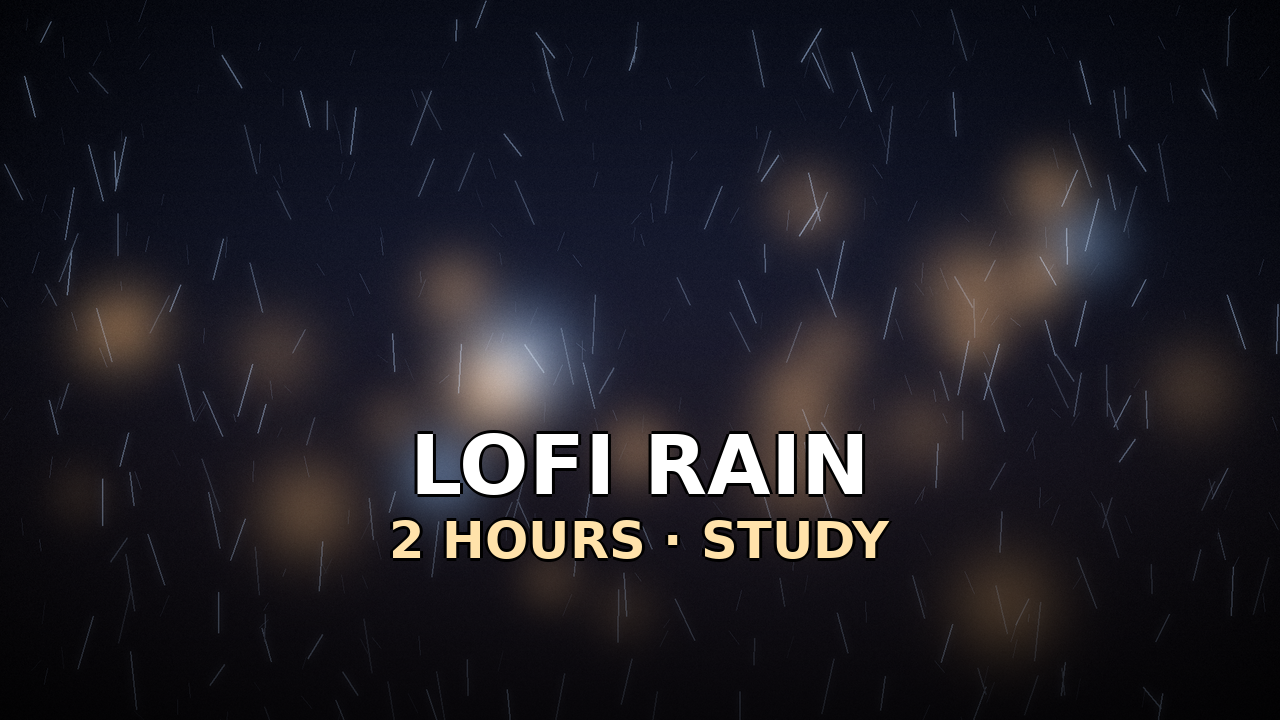
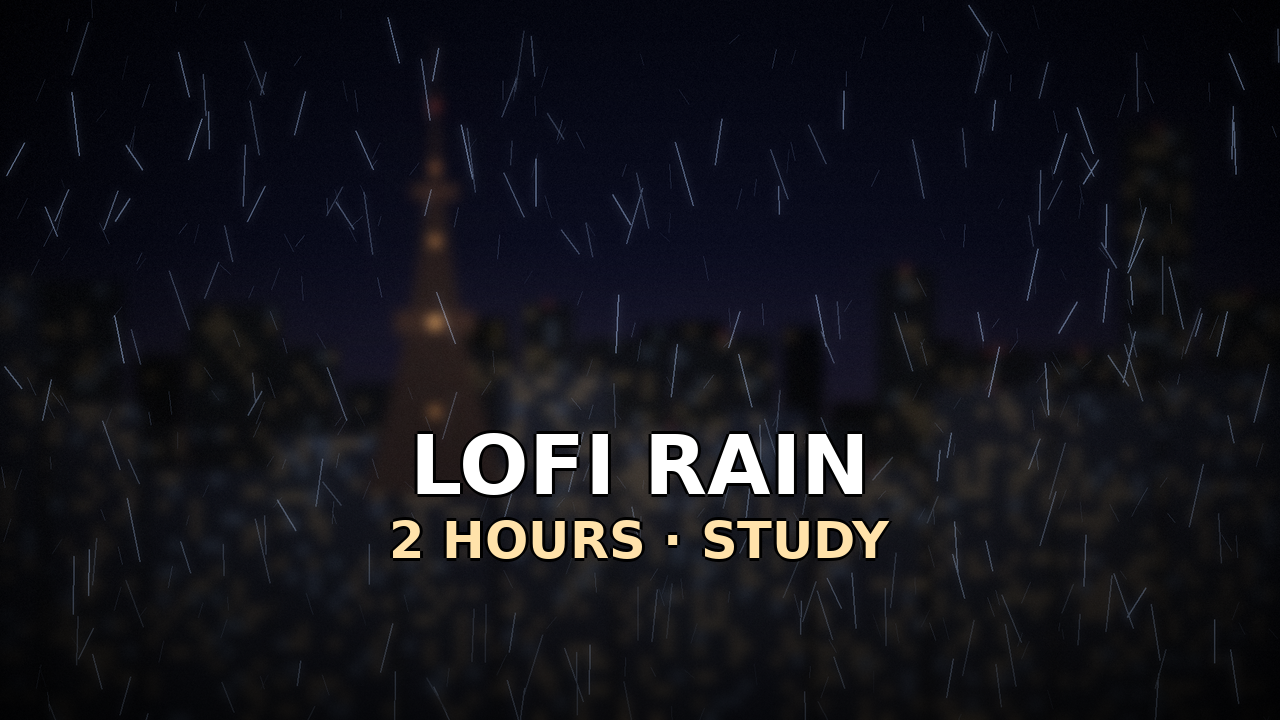
feat: 夜景シーンを作り込み、8時間版トラックと映像だけ再生成する機能を追加する
## 夜景シーン (night_skyline / rainy_city)

「東京タワーの夜景がぼやけて分からない」という指摘を受けて、
ぼかしを減らすだけでなくシーン自体を作り直した。
写真は著作権上使えないため、矩形と光だけで街を組み立てている。

- 電波塔に鉄骨のトラス構造、展望台、ライトアップ、頂部の赤色灯
- ビルの窓明かりを半径の違う3段のブルームで空へ滲ませる。
  小さな窓を大きくぼかすと値が落ちるので、増幅してから重ねている。
  ここが「夜景らしさ」を決めている
- 手前に川を置き、街を上下反転して映す。縦に引き伸ばしてから
  ぼかすと水面に光の筋が伸びる
- 空は上を藍、地平線近くを街明かりで暖色に染める
- 1割ほどのビルを飛び抜けて高くし、平坦なスカイラインを避ける

## 映像の割り当て

01 Lofi を rainy_city、10 Deep Focus を night_skyline に変更。
残り8本は据え置き。全部を同じ絵にすると差別化が消え、
テンプレート量産の外形に近づくため。

## 8時間版トラック (11_sleep_city_8h)

再生時間4,000時間を最速で積むための一本。
既存の睡眠BGMを長くするだけだと「同じ音源を長さ違いで2本」に
なりポリシー違反なので、別シード・別調 (Dm/46BPM) の新曲にした。

## --visual-only

音源合成を飛ばして映像とサムネだけ作り直し、再多重化する。
絵の差し替えが1本5分から数十秒に短縮される。

Claude-Session: https://claude.ai/code/session_014Nr9ShkX7adVXWWXqwiaYN

diff --git a/bgm_studio/visuals.py b/bgm_studio/visuals.py
@@ -502,83 +502,189 @@ def scene_minimal_gradient(seed: int = 10):
     return frame
 
 
+def _city_layers(rng, w, h, horizon, tower_x=0.56):
+    """
+    夜のビル群と電波塔を描いた RGB 配列を返す。
+    写真は著作権上使えないので、矩形と光だけで街を組み立てる。
+    """
+    city = Image.new("RGB", (w, h), (0, 0, 0))
+    d = ImageDraw.Draw(city)
+
+    # 奥から手前へ3層。奥ほど暗く、低く、窓が少ない
+    for layer, (dark, hmax, wmin, wmax, dens) in enumerate([
+            (0.30, 0.26, 46, 110, 0.16),
+            (0.55, 0.34, 70, 150, 0.24),
+            (1.00, 0.22, 96, 210, 0.30)]):
+        x = -80
+        while x < w + 80:
+            bw = int(rng.integers(wmin, wmax))
+            # 1割ほどは飛び抜けて高いビルにして、平坦なスカイラインを避ける
+            tall = rng.random() < 0.10
+            bh = int(rng.uniform(0.30, 1.0) * hmax * h * (1.9 if tall else 1.0))
+            top = horizon - bh + layer * 22
+            col = tuple(int(v * dark) for v in (20, 24, 38))
+            d.rectangle([x, top, x + bw, h], fill=col)
+            # 屋上の航空障害灯
+            if rng.random() < 0.35:
+                d.ellipse([x + bw // 2 - 3, top - 3, x + bw // 2 + 3, top + 3],
+                          fill=(255, 90, 70))
+            # 窓
+            step_y, step_x = 20, 16
+            for wy in range(top + 10, h, step_y):
+                for wx in range(x + 8, x + bw - 7, step_x):
+                    if rng.random() < dens:
+                        warm = rng.random() < 0.78
+                        c = (255, 205, 128) if warm else (168, 205, 255)
+                        f = 0.45 + 0.55 * dark
+                        d.rectangle([wx, wy, wx + 6, wy + 8],
+                                    fill=tuple(int(v * f) for v in c))
+            x += bw + int(rng.integers(3, 16))
+
+    # 電波塔
+    tx = int(w * tower_x)
+    base_y, top_y = horizon + 6, int(h * 0.12)
+    seg = 70
+    for i in range(seg):
+        t0, t1 = i / seg, (i + 1) / seg
+        y0 = base_y + (top_y - base_y) * t0
+        y1 = base_y + (top_y - base_y) * t1
+        half0 = int(104 * (1.0 - t0) ** 1.9) + 4
+        half1 = int(104 * (1.0 - t1) ** 1.9) + 4
+        # 鉄骨のトラス感を出すため、明暗を交互に
+        c = (46, 34, 34) if i % 2 == 0 else (34, 26, 28)
+        d.polygon([(tx - half0, y0), (tx + half0, y0),
+                   (tx + half1, y1), (tx - half1, y1)], fill=c)
+    # 展望台
+    for t, hw, hh in ((0.42, 60, 16), (0.74, 34, 11)):
+        y = base_y + (top_y - base_y) * t
+        d.rectangle([tx - hw, y - hh, tx + hw, y + hh], fill=(58, 40, 36))
+    # ライトアップと頂部の灯り
+    for t, r, c in ((0.20, 7, (255, 168, 92)), (0.42, 10, (255, 186, 110)),
+                    (0.62, 7, (255, 168, 92)), (0.80, 6, (255, 150, 80)),
+                    (0.95, 5, (255, 90, 70))):
+        y = base_y + (top_y - base_y) * t
+        d.ellipse([tx - r, y - r, tx + r, y + r], fill=c)
+    d.line([(tx, top_y), (tx, top_y - 78)], fill=(44, 34, 38), width=4)
+    return np.asarray(city, dtype=np.float32)
+
+
 def scene_night_skyline(seed: int = 11):
     """
-    夜の街のスカイライン。
-    無数の窓明かりと、中央にそびえる電波塔のシルエット。
+    夜の街のスカイライン。手前に川、対岸にビル群、中央に電波塔。
 
-    実在の写真は使えない (著作権) ので、矩形とグローだけで組み立てている。
-    そのぶん完全にオリジナルで、ぼかせば「どこかの街の夜」に見える。
+    「綺麗な夜景」を成立させているのは主に3つ:
+      - 空を単色にせず、地平線近くを街の光で暖色に染める
+      - ビルの光を大きくぼかして空へ滲ませる (ブルーム)
+      - 水面に街を映し、横方向の波でゆっくり歪ませる
     """
     rng = np.random.default_rng(seed)
-    bg = vgrad([(6, 9, 22), (12, 17, 38), (26, 28, 52), (44, 36, 48)])
+    horizon = int(H * 0.62)
 
-    city = Image.new("RGB", (W, H), (0, 0, 0))
-    d = ImageDraw.Draw(city)
-    horizon = int(H * 0.72)
+    # 空 — 上は藍、地平線近くは街明かりで暖色に
+    sky = vgrad([(4, 7, 22), (9, 13, 34), (20, 22, 48),
+                 (52, 40, 58), (86, 60, 54)],
+                stops=[0.0, 0.28, 0.46, 0.56, 0.62])
+    # 星
+    n_star = 420
+    sx = rng.integers(0, W, n_star)
+    sy = (rng.random(n_star) ** 2.0 * horizon * 0.72).astype(int)
+    sv = rng.uniform(50, 190, n_star).astype(np.float32)
+    sky[sy, sx] += sv[:, None]
 
-    # ビル群 (奥から手前へ3層。奥ほど暗く小さく)
-    for layer, (dark, hmax, wmin, wmax) in enumerate(
-            [(0.35, 0.30, 60, 130), (0.6, 0.42, 80, 170), (1.0, 0.26, 110, 240)]):
-        x = -60
-        while x < W + 60:
-            bw = int(rng.integers(wmin, wmax))
-            bh = int(rng.uniform(0.35, 1.0) * hmax * H)
-            top = horizon - bh + layer * 26
-            col = tuple(int(v * dark) for v in (18, 22, 34))
-            d.rectangle([x, top, x + bw, H], fill=col)
-            # 窓明かり
-            for wy in range(top + 12, H, 22):
-                for wx in range(x + 10, x + bw - 8, 18):
-                    if rng.random() < 0.28 - 0.08 * layer:
-                        warm = rng.random() < 0.75
-                        c = (255, 208, 130) if warm else (170, 205, 255)
-                        c = tuple(int(v * (0.5 + 0.5 * dark)) for v in c)
-                        d.rectangle([wx, wy, wx + 7, wy + 9], fill=c)
-            x += bw + int(rng.integers(4, 18))
-
-    # 電波塔 (中央やや右)
-    tx = int(W * 0.56)
-    base_y, top_y = horizon + 10, int(H * 0.14)
-    for i in range(60):
-        t = i / 59.0
-        y0 = base_y + (top_y - base_y) * t
-        y1 = base_y + (top_y - base_y) * (t + 1 / 59.0)
-        half = int(96 * (1.0 - t) ** 1.8) + 4
-        d.polygon([(tx - half, y0), (tx + half, y0),
-                   (tx + max(half - 3, 3), y1), (tx - max(half - 3, 3), y1)],
-                  fill=(30, 24, 30))
-    # 塔の灯り
-    for t, r in ((0.30, 9), (0.55, 7), (0.78, 6), (0.94, 5)):
-        y = base_y + (top_y - base_y) * t
-        d.ellipse([tx - r, y - r, tx + r, y + r], fill=(255, 140, 80))
-    d.line([(tx, top_y), (tx, top_y - 70)], fill=(40, 32, 38), width=5)
-
-    city_a = np.asarray(city, dtype=np.float32)
-    base = np.clip(screen(bg, city_a * 0.0) , 0, 255)
+    city_a = _city_layers(rng, W, H, horizon)
     mask = (city_a.sum(axis=2) > 1)[:, :, None]
-    base = np.where(mask, city_a, bg)
-    # 街の光が空へにじむ
-    base = screen(base, blur(np.where(city_a > 90, city_a, 0.0), 34.0) * 0.55)
-    base = vignette(base, 0.5) + static_grain(seed=seed, amount=2.0)
+    base = np.where(mask, city_a, sky)
+
+    # 街の光を空へ滲ませる (ブルーム)。
+    # 小さな窓を大きくぼかすと値が一気に落ちるので、
+    # 半径の違う3段を強めに増幅して重ねる。これが「夜景らしさ」の正体。
+    lights = np.where(city_a > 100, city_a, 0.0)
+    base = screen(base, np.clip(blur(lights, 60.0) * 4.0, 0, 255) * 0.30)
+    base = screen(base, np.clip(blur(lights, 22.0) * 2.6, 0, 255) * 0.30)
+    base = screen(base, np.clip(blur(lights, 7.0) * 1.8, 0, 255) * 0.42)
+    # 街全体が空を染める光のドーム
+    base = screen(base, radial_glow(0.5, 0.63, 0.62, (150, 96, 70), 0.38,
+                                    falloff=1.5))
+    base = screen(base, radial_glow(0.56, 0.50, 0.26, (170, 110, 78), 0.35,
+                                    falloff=1.6))
+
+    # 川 — 街を上下反転して映し、暗く沈める
+    water_top = int(H * 0.78)
+    refl = base[:water_top][::-1]
+    wh = H - water_top
+    refl = refl[:wh] if refl.shape[0] >= wh else np.vstack(
+        [refl, np.zeros((wh - refl.shape[0], W, 3), np.float32)])
+    # 反射は縦に引き伸ばしてから軽くぼかすと、水面に光の筋が伸びる
+    refl_img = Image.fromarray(np.clip(refl, 0, 255).astype(np.uint8))
+    refl_img = refl_img.resize((W, wh), Image.BILINEAR)
+    refl = np.asarray(refl_img, dtype=np.float32)
+    streak = np.asarray(
+        Image.fromarray(np.clip(refl, 0, 255).astype(np.uint8))
+        .filter(ImageFilter.GaussianBlur(2)).resize((W // 6, wh), Image.BILINEAR)
+        .resize((W, wh), Image.BILINEAR), dtype=np.float32)
+    base[water_top:] = np.clip(blur(refl, 5.0) * 0.55 + streak * 0.35, 0, 255)
+    # 岸辺を暗く締める
+    base[water_top - 6:water_top + 4] *= 0.30
+
+    base = vignette(base, 0.48) + static_grain(seed=seed, amount=2.0)
+    y, x = _yx()
+    water_mask = np.clip((y - (water_top / H)) / 0.05, 0, 1)
 
     def frame(t01):
         img = base.copy()
-        # 塔の赤灯がゆっくり明滅する
+        # 水面のゆらぎ (縦方向に波打たせて反射を崩す)
+        wv = periodic_noise(t01, scale=2.0, cycles=1, seed=seed + 4, n_waves=4)
+        img += (water_mask * (0.5 + 0.5 * wv) * 16.0)[:, :, None] \
+            * np.array([0.55, 0.65, 1.0], dtype=np.float32)
+        # 塔の頂の赤灯が明滅
         pulse = 0.5 + 0.5 * np.sin(TWO_PI * t01)
-        img = screen(img, radial_glow(0.56, 0.30, 0.05, (255, 120, 60),
-                                      0.25 + 0.25 * pulse, res_div=3))
-        # 空気のゆらぎ
-        h = periodic_noise(t01, scale=1.2, cycles=1, seed=seed + 3, n_waves=3)
-        y, _ = _yx()
-        haze = np.clip((0.78 - y) / 0.5, 0, 1) * (0.5 + 0.5 * h) * 0.10
-        img = screen(img, haze[:, :, None] * np.array([90, 110, 160], dtype=np.float32))
+        img = screen(img, radial_glow(0.56, 0.135, 0.035, (255, 90, 70),
+                                      0.30 + 0.40 * pulse, res_div=3))
+        img = screen(img, radial_glow(0.56, 0.34, 0.10, (255, 170, 95),
+                                      0.10 + 0.06 * pulse, res_div=3))
+        # 空の薄雲がゆっくり流れる
+        hz = periodic_noise(t01, scale=0.9, cycles=1, seed=seed + 7, n_waves=3)
+        haze = np.clip((0.60 - y) / 0.55, 0, 1) * (0.5 + 0.5 * hz) * 0.13
+        img = screen(img, haze[:, :, None]
+                     * np.array([120, 110, 160], dtype=np.float32))
+        return img
+    return frame
+
+
+def scene_rainy_city(seed: int = 23):
+    """
+    雨の夜の街。スカイラインの上に雨を降らせ、ガラス越しにぼかす。
+    lofi の定番構図を、単なるボケ玉ではなく「街」として描く。
+    """
+    rng = np.random.default_rng(seed)
+    horizon = int(H * 0.68)
+    sky = vgrad([(6, 8, 20), (12, 14, 32), (26, 24, 44), (64, 46, 52)],
+                stops=[0.0, 0.34, 0.54, 0.68])
+    city_a = _city_layers(rng, W, H, horizon, tower_x=0.34)
+    mask = (city_a.sum(axis=2) > 1)[:, :, None]
+    base = np.where(mask, city_a, sky)
+    lights = np.where(city_a > 100, city_a, 0.0)
+    base = screen(base, blur(lights, 54.0) * 0.85)
+    base = blur(base, 9.0)                       # ガラス越し
+    base = vignette(base, 0.46) + static_grain(seed=seed)
+
+    def frame(t01):
+        img = base.copy()
+        img = screen(img, _particle_layer(t01, 200, seed + 1, H, W,
+                                          length=0.06, thickness=2,
+                                          color=(150, 175, 215), speed=3.0,
+                                          drift=0.02, glow=True) * 0.55)
+        img = screen(img, _particle_layer(t01, 280, seed + 2, H, W,
+                                          length=0.022, thickness=1,
+                                          color=(110, 132, 170), speed=6.0,
+                                          drift=0.01) * 0.42)
         return img
     return frame
 
 
 SCENES = {
     "night_skyline": scene_night_skyline,
+    "rainy_city": scene_rainy_city,
     "rainy_window": scene_rainy_window,
     "starry_night": scene_starry_night,
     "rain_street": scene_rain_street,

diff --git a/render_bgm.py b/render_bgm.py
@@ -168,6 +168,11 @@ def process(spec: TR.TrackSpec, args) -> dict:
     t_start = time.time()
     log(f"\n▸ {spec.slug}  ({spec.genre_ja})")
 
+    # 映像だけ作り直す場合は、時間のかかる音源合成を丸ごと飛ばす。
+    # 音は変えずに絵だけ差し替えたいときのための経路。
+    if args.visual_only:
+        return process_visual_only(spec, args, t_start)
+
     # ── 音源 ───────────────────────────────────────────────
     log("  音源を合成中...")
     t = time.time()
@@ -253,6 +258,44 @@ def process(spec: TR.TrackSpec, args) -> dict:
     return result
 
 
+def process_visual_only(spec: TR.TrackSpec, args, t_start: float) -> dict:
+    """既存の WAV を使い、映像・サムネ・本編だけ作り直す"""
+    wav = OUT / "audio" / f"{spec.slug}.wav"
+    if not wav.exists():
+        raise FileNotFoundError(f"{wav} がありません。先に通常のレンダリングが必要です。")
+
+    total_seconds = args.seconds * args.repeats
+    log("  映像ループを描画中...")
+    t = time.time()
+    vis = VID.encode_visual_loop(
+        spec.visual, OUT / "visual" / f"{spec.slug}.mp4", seed=spec.seed,
+        progress=lambda i, n: bar(i, n, spec.visual))
+    print()
+    log(f"    {spec.visual}  {vis.stat().st_size / 1e6:.1f} MB  ({time.time() - t:.0f}s)")
+
+    thumb_dir = OUT / "thumbnail"
+    thumb_dir.mkdir(parents=True, exist_ok=True)
+    VIS.thumbnail(spec.visual, _thumb_lines(spec, total_seconds),
+                  seed=spec.seed).save(thumb_dir / f"{spec.slug}.png")
+
+    log(f"  音声を {args.repeats} 回つないで AAC 化中...")
+    m4a = VID.loop_audio_to_aac(wav, OUT / "tmp" / f"{spec.slug}.m4a",
+                                repeats=args.repeats, bitrate=args.audio_bitrate)
+    log("  本編を書き出し中...")
+    out_mp4 = VID.mux_looped(vis, m4a, OUT / "video" / f"{spec.slug}.mp4",
+                             total_seconds=total_seconds)
+    pr = VID.probe(out_mp4)
+    log(f"    {out_mp4}  {VID.hhmmss(pr.get('duration_s', 0))}  "
+        f"{pr.get('size_mb', 0):.0f} MB")
+    if not args.keep_temp:
+        m4a.unlink(missing_ok=True)
+    return {"slug": spec.slug, "video": str(out_mp4), "probe": pr,
+            "total_seconds": total_seconds,
+            "total_hhmmss": VID.hhmmss(total_seconds),
+            "lufs": -14.0, "loop_seam_db": 0.0,
+            "elapsed_s": round(time.time() - t_start, 1)}
+
+
 def _thumb_lines(spec: TR.TrackSpec, total_seconds: float) -> list[str]:
     """サムネの文字。3〜4 語まで、用途が一目で分かること"""
     hours = int(total_seconds // 3600)
@@ -282,6 +325,8 @@ def main() -> int:
     ap.add_argument("--repeats", type=int, default=TR.LOOP_REPEATS,
                     help=f"ループ回数 (既定 {TR.LOOP_REPEATS})")
     ap.add_argument("--no-video", action="store_true", help="音源とメタだけ作る")
+    ap.add_argument("--visual-only", action="store_true",
+                    help="既存の音源を使い、映像とサムネだけ作り直して再多重化する")
     ap.add_argument("--audio-bitrate", default="256k")
     ap.add_argument("--keep-temp", action="store_true")
     args = ap.parse_args()

diff --git a/bgm_studio/tracks.py b/bgm_studio/tracks.py
@@ -510,7 +510,7 @@ TRACKS: list[TrackSpec] = [
         title_en="Rainy Lofi Study Beats",
         genre_ja="ローファイ・ヒップホップ（雨の窓辺）",
         use_case="study", bpm=78.0, key="Am", key_root=9, scale="minor",
-        prog_key="lofi", visual="rainy_window", seed=1011,
+        prog_key="lofi", visual="rainy_city", seed=1011,
         build=build_lofi_study,
         seo=dict(
             title="Rainy Lofi Beats to Study & Relax 🌧 2 Hours of Chill Hip Hop",
@@ -627,12 +627,28 @@ TRACKS: list[TrackSpec] = [
         title_en="Deep Focus Flow",
         genre_ja="ディープフォーカス（集中）",
         use_case="study", bpm=60.0, key="Am", key_root=9, scale="dorian",
-        prog_key="focus", visual="minimal_gradient", seed=1100,
+        prog_key="focus", visual="night_skyline", seed=1100,
         build=build_deep_focus,
         seo=dict(
             title="Deep Focus Music 🧠 2 Hours of Ambient Flow State Music for Studying & Work",
             keywords=["focus music", "concentration", "study music",
                       "deep work", "brown noise", "ambient", "productivity"],
+        ),
+    ),
+    # 再生時間の稼ぎ頭。8時間版として書き出す (--repeats 20)。
+    # 02 と同じジャンルだが seed も調も違うので完全に別の曲。
+    # 同じ音源を長さ違いで2本出すのはポリシー違反になるため、必ず別曲にする。
+    TrackSpec(
+        slug="11_sleep_city_8h",
+        title_en="All Night Sleep Ambient",
+        genre_ja="8時間睡眠アンビエント（夜の街）",
+        use_case="sleep", bpm=46.0, key="Dm", key_root=2, scale="minor",
+        prog_key="ambient", visual="night_skyline", seed=1212,
+        build=build_deep_sleep,
+        seo=dict(
+            title="8 Hour Sleep Music 🌃 Deep Ambient for a Full Night's Rest",
+            keywords=["8 hour sleep music", "sleep music", "deep sleep",
+                      "ambient", "insomnia", "relaxing music", "night"],
         ),
     ),
 ]

diff --git a/bgm_studio/copywriting.py b/bgm_studio/copywriting.py
@@ -326,3 +326,34 @@ Full {duration} version on the channel — no ads mid-track, seamless loop.
 
 #{tag1} #{tag2} #shorts
 """
+
+
+DESCRIPTIONS["11_sleep_city_8h"] = """\
+Eight hours. Enough for a whole night.
+
+This is the long one. Most sleep mixes stop after two or three hours and
+leave you in silence at 4am — this doesn't. Put it on when you get into
+bed and it will still be going when your alarm does.
+
+It's built the same way as the shorter sleep mix on this channel, but
+slower and in a different key: 46 BPM, D minor, and the chords hold for
+four bars at a time before they move. Wide pads, a drone underneath, and
+a singing bowl every few minutes. Nothing above 7 kHz, so there's no
+treble to keep you alert.
+
+The picture is a city at night from across the water, because that is
+what most of us actually fall asleep near.
+
+46 BPM · D minor · {duration} · seamless loop, no gaps.
+
+Not a medical treatment — just music designed to be easy to sleep through.
+
+— A different composition from the two-hour sleep mix on this channel.
+  Written and produced from scratch, like everything else here.
+"""
+
+SHORT_HOOKS["11_sleep_city_8h"] = [
+    "eight hours.\nenough for a whole night.",
+    "most sleep mixes leave you\nin silence at 4am",
+    "46 BPM. nothing\nabove 7 kilohertz.",
+]
